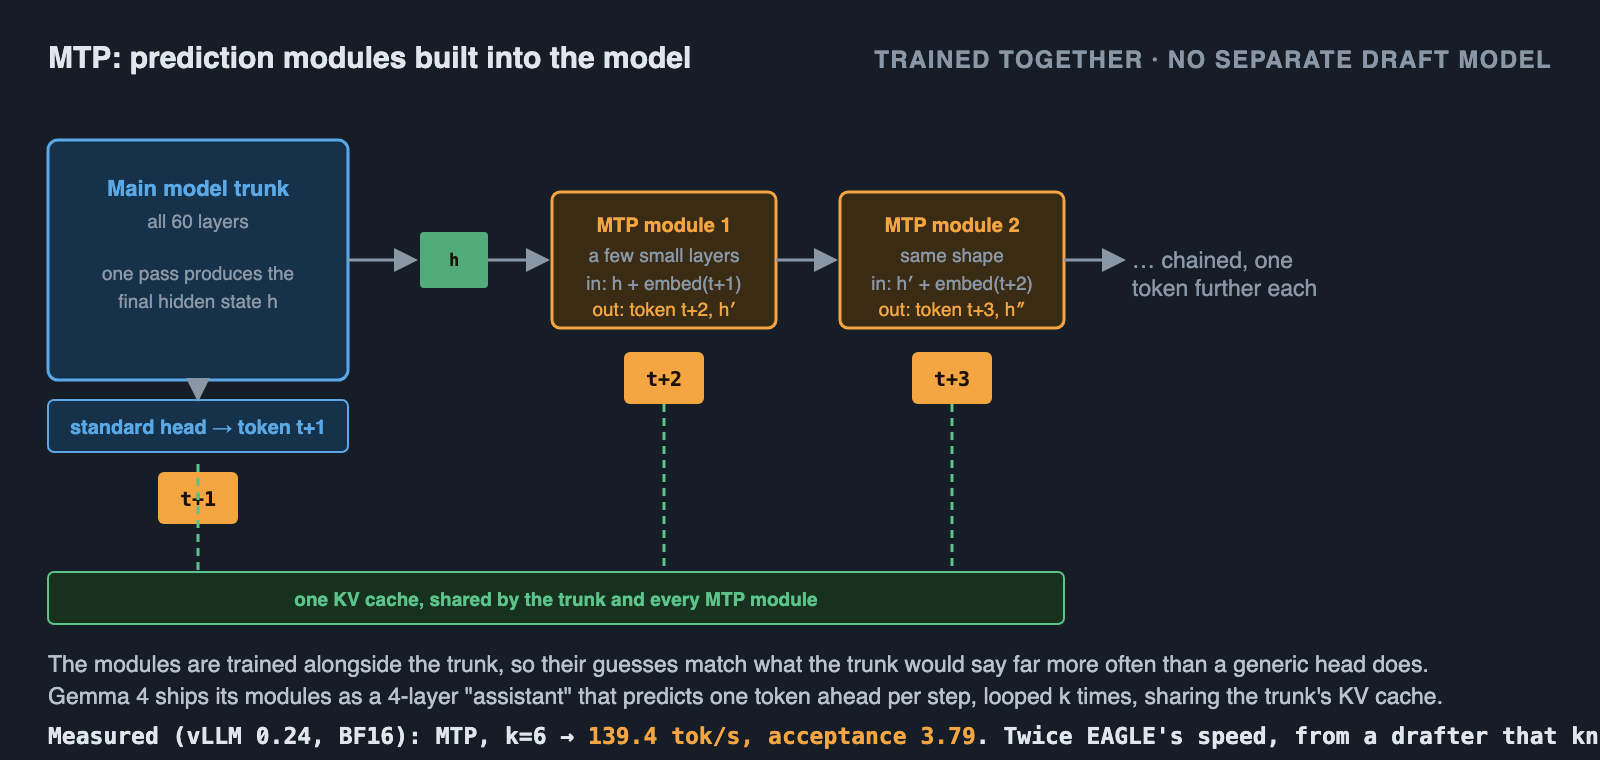
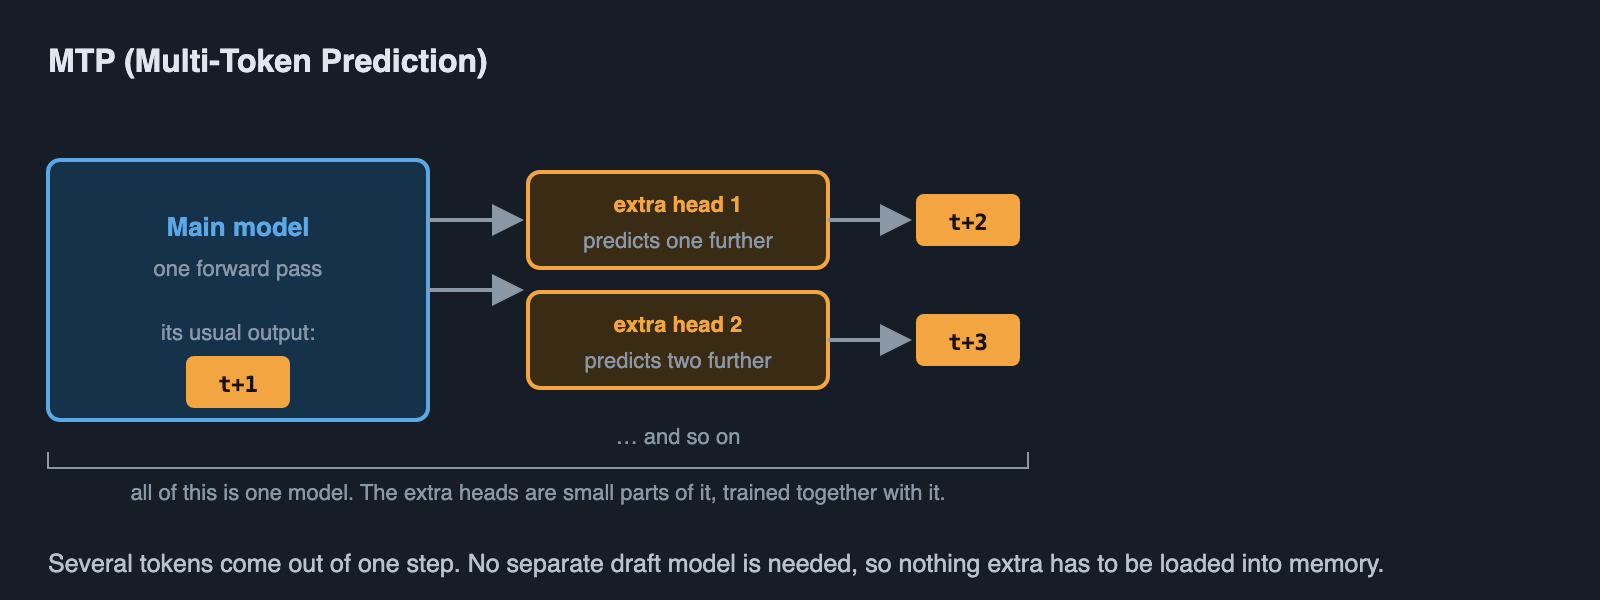
EAGLE, MTP, NextN: one plain diagram each, no cross-comparisons or engine names

diff --git a/gemma/blog.md b/gemma/blog.md
@@ -73,21 +73,19 @@ The important thing to understand is that this is exact. The output is the same 
 
 MTP stands for multi token prediction. It is the name for the kind of drafter Google shipped for Gemma 4, where the drafter is a small set of extra layers trained alongside the main model to predict ahead. It shares the main model's KV cache, which makes it cheap to run.
 
-There are a few different ways to build the drafter, and the results table below has three of them, so it is worth knowing how they differ.
+There are a few different ways to build the drafter, and three of them appear in the results below.
 
-**EAGLE** uses a separate lightweight draft head to generate future tokens. What makes it different is what the head reads: not the previous token, but the main model's hidden feature vector, which is the state the model had just before it picked a token. A small head can extrapolate that vector well, so it drafts several tokens cheaply, and then the expensive main model verifies them in one pass. The head is trained afterwards on a frozen model, which is convenient, but it is also why it knows the model less well than a drafter trained with it.
+**EAGLE** uses a separate lightweight draft model to guess the next few tokens. The expensive main model then checks those guesses in one pass and keeps the ones that match. The main model runs once to verify several tokens instead of once per token, and that is where the saving comes from.
 
-<img src="assets/eagle.svg" alt="EAGLE: a small separate head drafts tokens from the main model's hidden features, then the main model verifies them" width="800">
+<img src="assets/eagle.svg" alt="EAGLE: a small separate draft model guesses the next tokens, the main model checks them in one pass" width="800">
 
-**MTP**, multi token prediction, lets the model predict several future tokens in one step. The main model has additional small prediction modules attached to it, trained together with it, and each module takes the trunk's final hidden state plus the next token's embedding and predicts one token further. The modules are small, so drafting costs a fraction of a full forward pass, and no separate draft model has to be loaded into memory. Because they were trained with the model, their guesses match it far more often.
+**MTP**, multi token prediction, lets the model predict several future tokens in one step. Instead of a separate draft model, the main model itself has extra prediction heads attached to it, trained together with it, and each head predicts one token further ahead. The heads are small, so the extra work is cheap, and nothing extra has to be loaded into memory.
 
-<img src="assets/mtp.svg" alt="MTP: prediction modules attached to the main model, trained with it, each predicting one token further" width="800">
+<img src="assets/mtp.svg" alt="MTP: the main model has extra prediction heads that produce several future tokens in one step" width="800">
 
-**NextN** predicts the next N tokens ahead instead of only the next one, and uses those N predictions as drafts for the main model to verify. It is SGLang's name for running a model's MTP module as the drafter, so it is the same idea as MTP on vLLM, implemented in a different engine. N is the same knob this article calls k.
+**NextN** predicts the next N tokens ahead in one step instead of only the next one. Those N predictions are used as draft tokens, and the main model verifies them and keeps the ones that are right.
 
-<img src="assets/nextn.svg" alt="NextN: the model's MTP module drafts the next N tokens in one step, then the main model verifies them" width="800">
-
-The measured difference between these on this model was large. On vLLM 0.24 with BF16 weights, EAGLE-3 at k=3 gave 68.7 tokens per second with an acceptance of 1.74, while MTP at k=6 gave 139.4 with an acceptance of 3.79. A drafter that was trained with the model is worth about twice the speed of a generic one here.
+<img src="assets/nextn.svg" alt="NextN: predict the next N tokens in one step, then the main model verifies them" width="800">
 
 ### Quantisation and NVFP4
 
